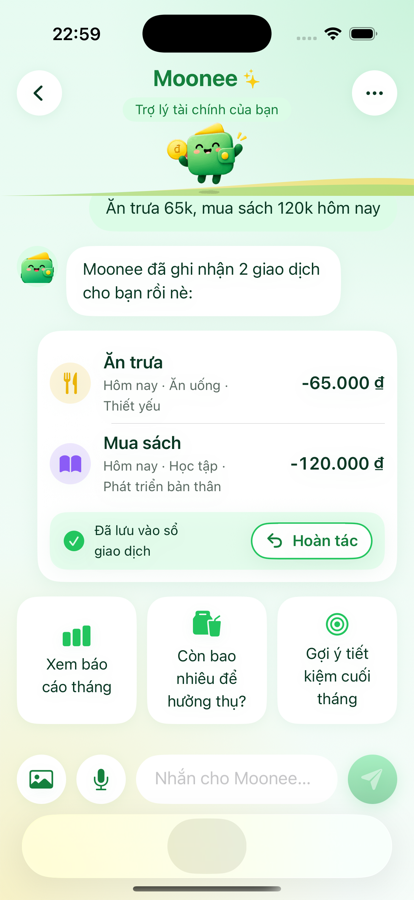
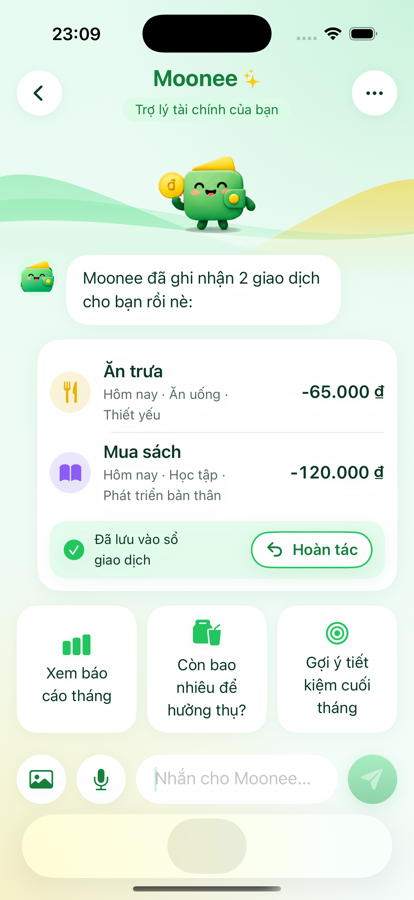
Chat hero: soft rolling hills like the mockup, chat starts under them
Hills now rise from coin height and run behind the first bubble (drawn as a
non-clipped background so messages scroll over them), each mound deeper at
its crest and paler at its foot, fading out with no edge. A short chat is
top-aligned under the hero instead of sinking to the bottom.

diff --git a/Moonee/Features/Chat/ChatView.swift b/Moonee/Features/Chat/ChatView.swift
@@ -43,7 +43,9 @@ struct ChatView: View {
                     .padding(.horizontal, 16).padding(.vertical, 8)
                 }
                 .scrollDismissesKeyboard(.interactively)
-                .defaultScrollAnchor(.bottom)
+                .defaultScrollAnchor(.bottom, for: .initialOffset)
+                .defaultScrollAnchor(.bottom, for: .sizeChanges)
+                .defaultScrollAnchor(.top, for: .alignment) // a short chat sits under the hero, as in the mockup
                 .onChange(of: messages.count) { withAnimation { proxy.scrollTo("bottom", anchor: .bottom) } }
                 .onChange(of: busy) { withAnimation { proxy.scrollTo("bottom", anchor: .bottom) } }
             }
@@ -119,12 +121,15 @@ struct ChatView: View {
             }
             .padding(.horizontal, 16)
 
+            let size: CGFloat = focused ? 110 : 180
             MooneeCharacter(mood: currentMood)
-                .frame(height: focused ? 72 : 150)
+                .frame(height: size)
                 .frame(maxWidth: .infinity)
-                .background(alignment: .bottom) { Hills().frame(height: focused ? 30 : 60).opacity(0.5) }
-                .animation(.smooth, value: focused)
-                .animation(.smooth, value: currentMood)
+                // From coin height down behind the first bubble; not clipped, so the chat scrolls over it (mockup).
+                .background(alignment: .top) { ChatHills().frame(height: size * 1.05).offset(y: size * 0.36) }
+                .padding(.bottom, 8)
+            .animation(.smooth, value: focused)
+            .animation(.smooth, value: currentMood)
         }
     }
 
@@ -288,5 +293,54 @@ struct ChatView: View {
         } else {
             record([ChatBook.receipt(lines, context: ParserContext(context))], source: .image, raw: lines.joined(separator: "\n"))
         }
+    }
+}
+
+/// Soft rolling hills behind the character (chat mockup): mint on the left, warm yellow on the right,
+/// a pale ground in front, fading out at the bottom so the chat flows on without an edge.
+private struct ChatHills: View {
+    var body: some View {
+        Canvas { ctx, size in
+            let (w, h) = (size.width, size.height)
+            func hill(_ color: Color, _ build: (inout Path) -> Void) {
+                var p = Path()
+                build(&p)
+                p.closeSubpath()
+                // Each hill is deeper at its crest and pales toward its foot, like the mockup's soft mounds.
+                let top = p.boundingRect.minY
+                ctx.fill(p, with: .linearGradient(Gradient(colors: [color, color.opacity(0.25)]),
+                                                  startPoint: .init(x: 0, y: top), endPoint: .init(x: 0, y: h)))
+            }
+            // Far mint hill: high on the left, rolling down behind the character.
+            hill(Color.brandPrimaryLight.opacity(0.4)) { p in
+                p.move(to: .init(x: 0, y: h))
+                p.addLine(to: .init(x: 0, y: h * 0.12))
+                p.addCurve(to: .init(x: w * 0.68, y: h * 0.78), control1: .init(x: w * 0.16, y: h * -0.02), control2: .init(x: w * 0.4, y: h * 0.62))
+                p.addLine(to: .init(x: w * 0.68, y: h))
+            }
+            // Warm yellow hill rising to the right edge.
+            hill(Color.brandYellow.opacity(0.5)) { p in
+                p.move(to: .init(x: w * 0.42, y: h))
+                p.addCurve(to: .init(x: w, y: h * 0.14), control1: .init(x: w * 0.66, y: h * 0.74), control2: .init(x: w * 0.84, y: h * 0.16))
+                p.addLine(to: .init(x: w, y: h))
+            }
+            // A second, lighter mint wave across the screen.
+            hill(Color.brandPrimaryLight.opacity(0.22)) { p in
+                p.move(to: .init(x: 0, y: h))
+                p.addLine(to: .init(x: 0, y: h * 0.32))
+                p.addCurve(to: .init(x: w, y: h * 0.58), control1: .init(x: w * 0.3, y: h * 0.2), control2: .init(x: w * 0.6, y: h * 0.72))
+                p.addLine(to: .init(x: w, y: h))
+            }
+            // Pale ground the character stands on.
+            hill(Color.white.opacity(0.7)) { p in
+                p.move(to: .init(x: 0, y: h))
+                p.addLine(to: .init(x: 0, y: h * 0.5))
+                p.addCurve(to: .init(x: w, y: h * 0.6), control1: .init(x: w * 0.35, y: h * 0.42), control2: .init(x: w * 0.62, y: h * 0.78))
+                p.addLine(to: .init(x: w, y: h))
+            }
+        }
+        .mask(LinearGradient(stops: [.init(color: .black, location: 0.55), .init(color: .clear, location: 1)], startPoint: .top, endPoint: .bottom))
+        .allowsHitTesting(false)
+        .accessibilityHidden(true)
     }
 }
